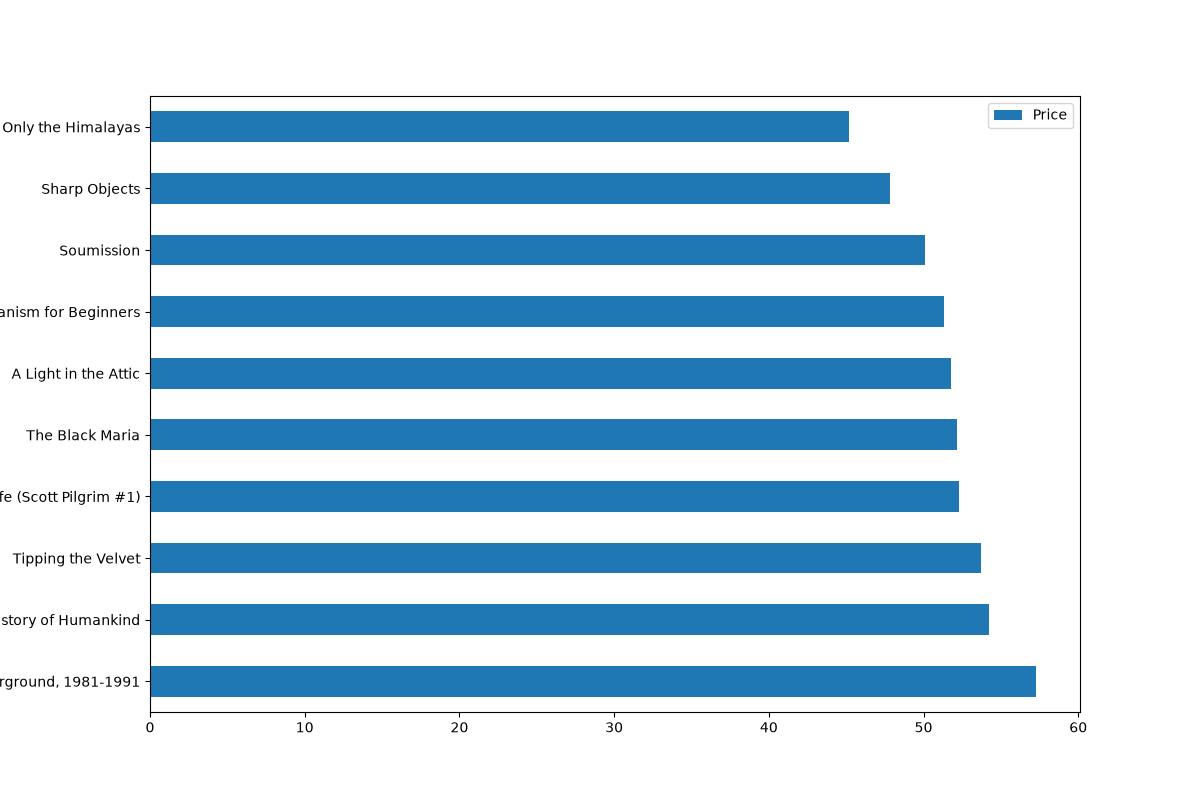
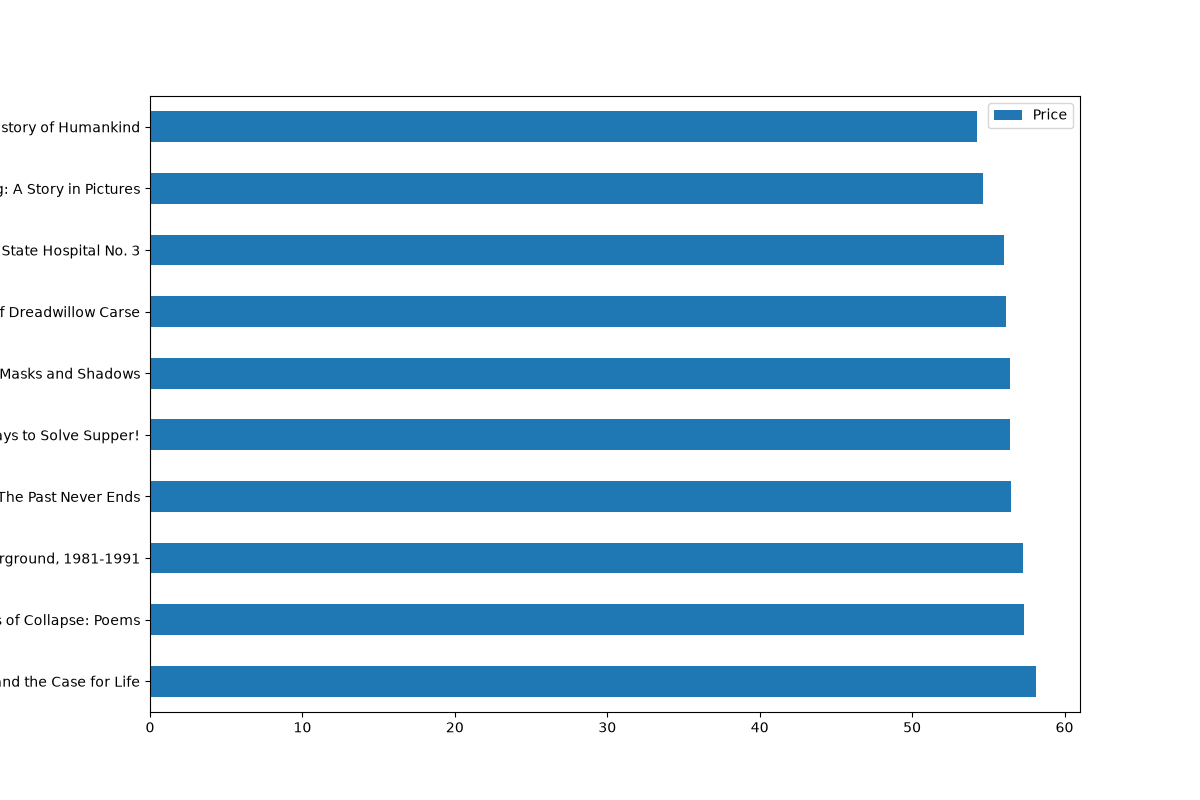
more code

diff --git a/main.py b/main.py
@@ -13,12 +13,17 @@ from src.analytics import rating_count
 
 def main():
     session_main = requests.Session()
-#Dependency Injection    
-    file_or_data_main = scrape_books(session_main, 1)
-    print(file_or_data_main[:500])
-
-    data_dict = parse_book(file_or_data_main)
-    df = pd.DataFrame(data_dict)
+#Dependency Injection  
+    all_books = []
+    for pg in range(1, 6):
+        file_or_data_main = scrape_books(session_main, pg)
+        print(file_or_data_main[:500])
+        
+        data_dict = parse_book(file_or_data_main)
+#data_dict is a list of 20 books. .append() puts the whole box inside all_books, creating...
+#... 5 nested lists (which makes pd.DataFrame() build a broken 5-row × 20-column table)        
+        all_books.extend(data_dict)
+    df = pd.DataFrame(all_books)
 
     create_csv(df, OUTPUT_CSV)
 

diff --git a/src/analytics.py b/src/analytics.py
@@ -29,7 +29,7 @@ def graph(table, top_10table, ratingCt):
 #plot histogram
 #    df_data3.hist(column="rating", figsize=(15, 10), bins=10)
 #    plt.savefig('../img/show_histogram')
-    table.plot(kind="hist", y="Price", figsize=(12, 8), bins=5)
+    table.plot(kind="hist", y="Price", figsize=(12, 8), bins=10)
     plt.savefig(HIST)
     plt.clf()
     top_10table.plot(kind="barh", y="Price", figsize=(12, 8), x="Book title")
